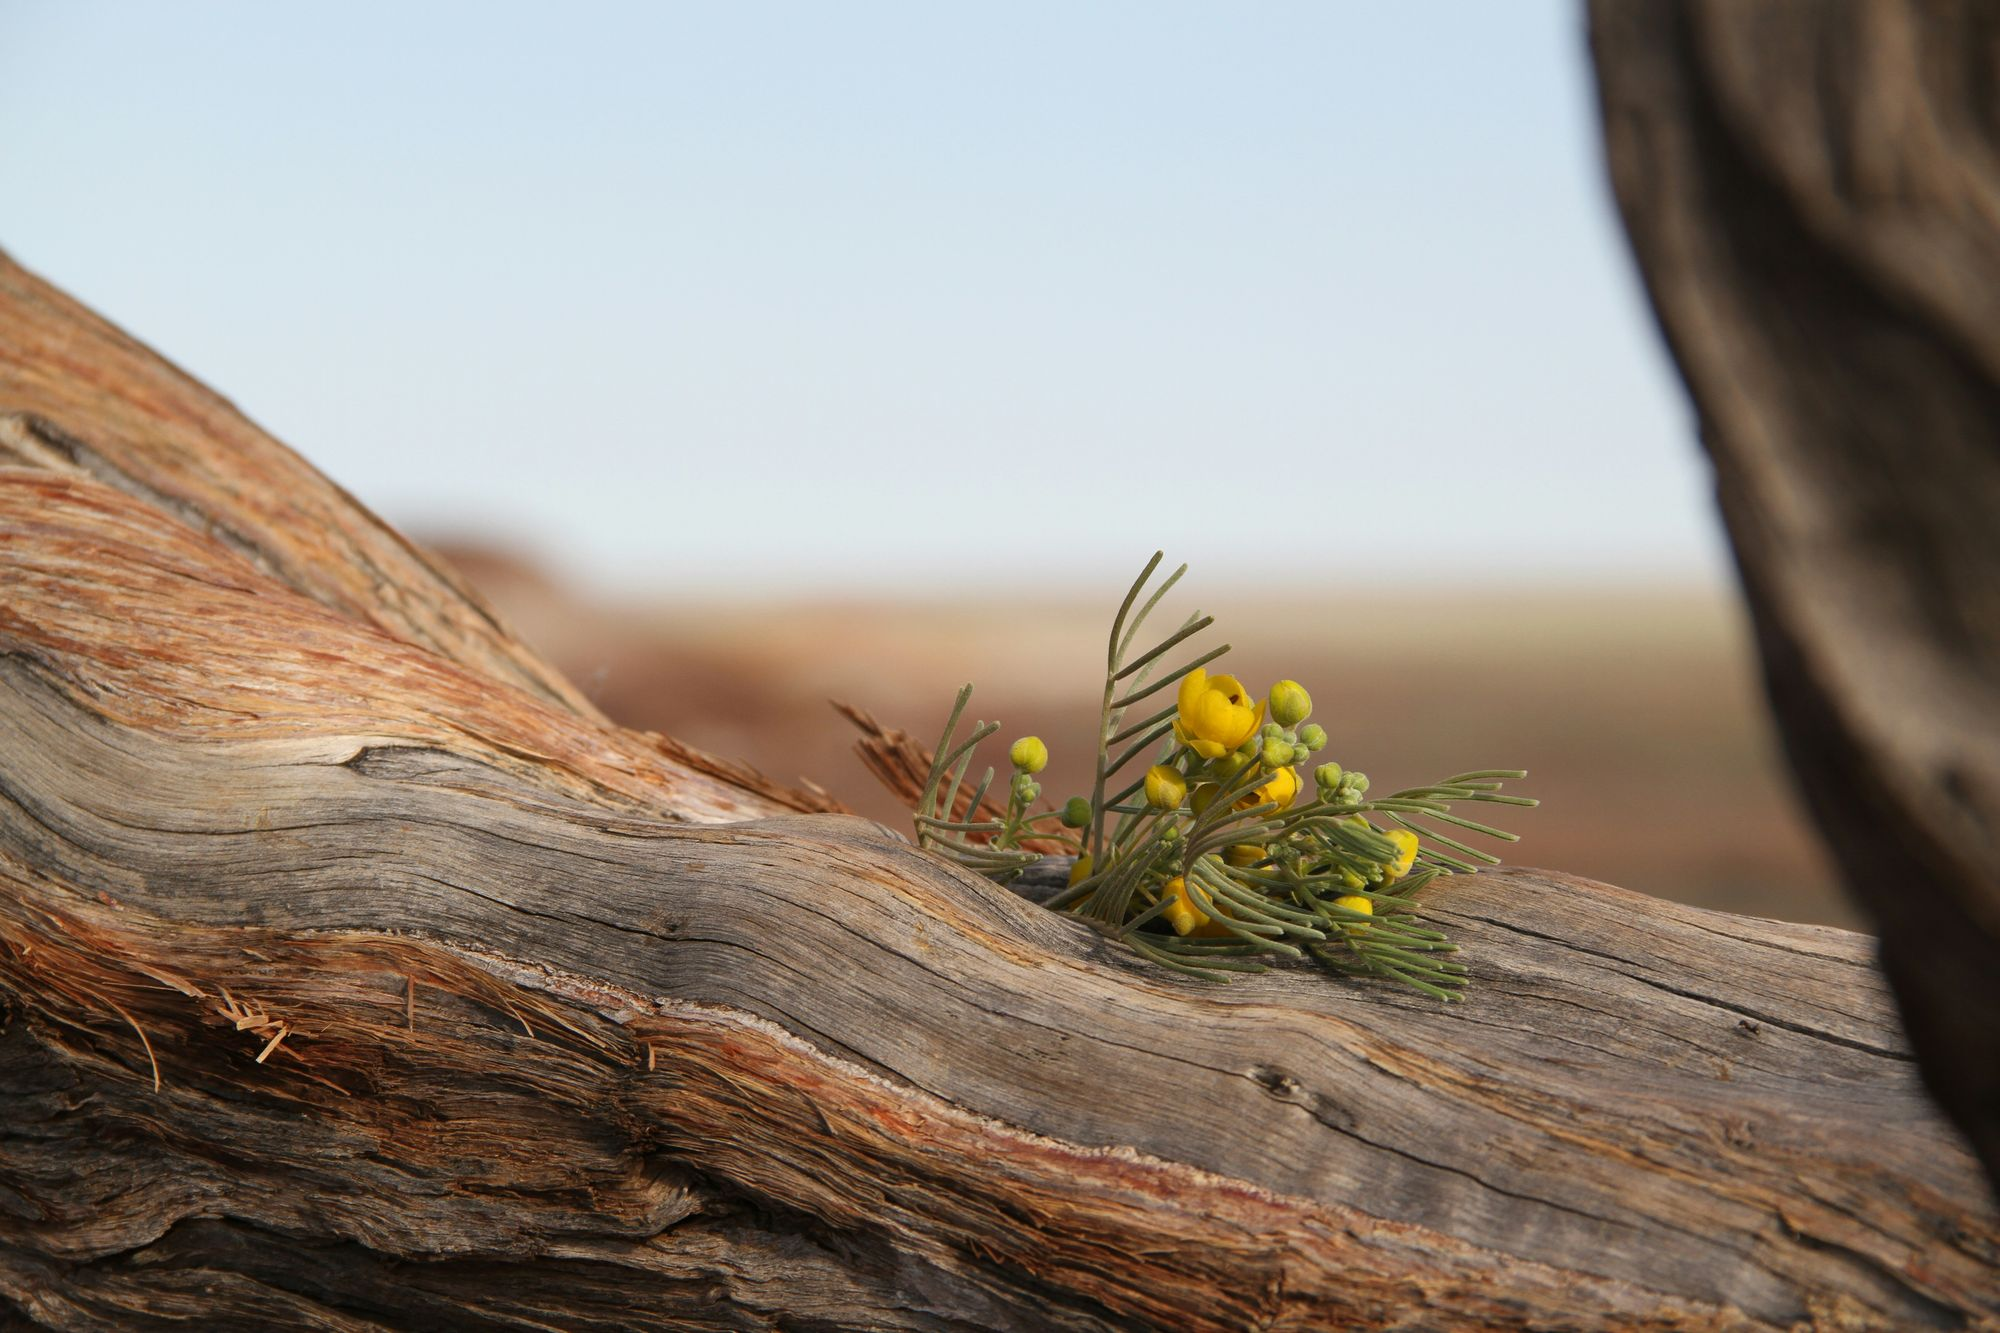
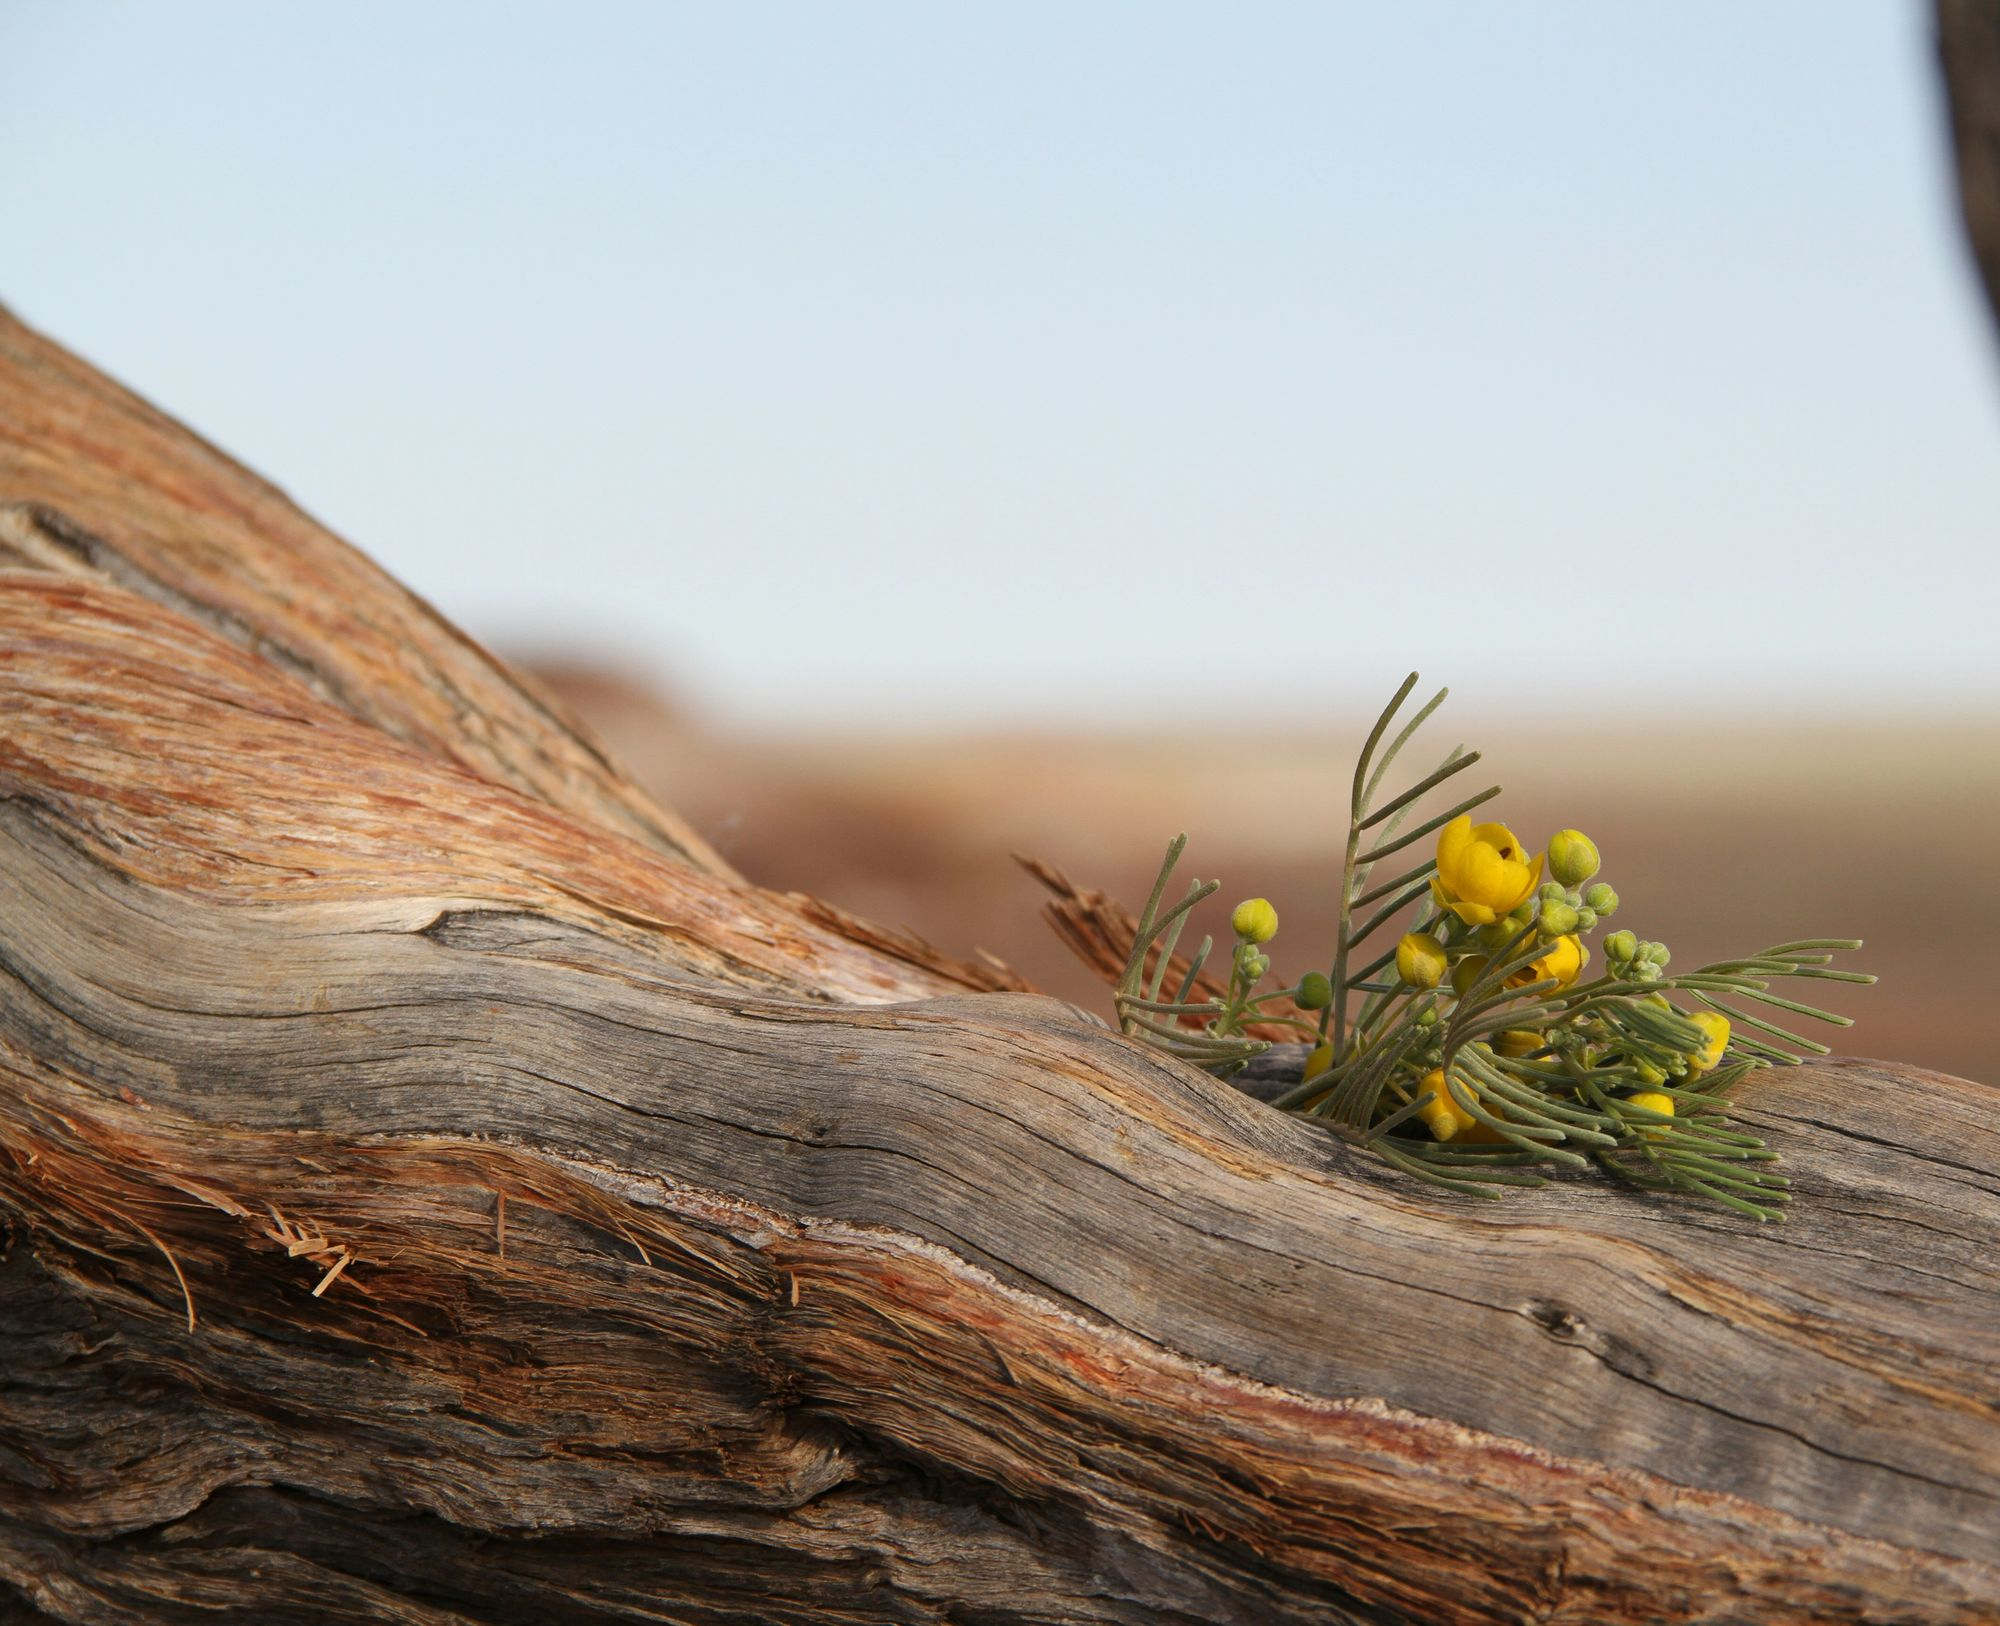
Get Involved hero: flower further right, "with natural Australia." on line two
Claude-Session: https://claude.ai/code/session_01K1Uhp38GUsmwNgrm1DziWQ

diff --git a/ways-you-can-get-involved.html b/ways-you-can-get-involved.html
@@ -32,7 +32,8 @@
 
 /* hero: wildflower photo, light fade behind the text only */
 .pj-hero.gi-hero::after{background:linear-gradient(97deg,rgba(15,49,50,.72) 0%,rgba(15,49,50,.5) 28%,rgba(15,49,50,.12) 48%,rgba(15,49,50,0) 62%)}
-.gi-hero h1{max-width:14ch}
+.gi-hero h1{max-width:none}
+@media(max-width:780px){.gi-br{display:none}}
 @media(max-width:820px){.gi-hero{flex-direction:column;align-items:stretch;min-height:0}.gi-hero .pj-hero-im{position:relative;inset:auto;height:240px;z-index:0}.gi-hero .pj-hero-im img{object-position:62% 55%}.pj-hero.gi-hero::after{display:none}.gi-hero>.cw{padding-top:2rem}.gi-hero h1,.gi-hero .lede{text-shadow:none}}
 </style>
 </head>
@@ -82,11 +83,11 @@
 </header><!-- /@header -->
 <main>
 <section class="pj-hero pj-hero-soft gi-hero">
-  <figure class="pj-hero-im"><img src="assets/img/get-involved-hero-wildflower.jpg" alt="A sprig of yellow wildflowers resting on a weathered, twisting log under a pale sky" style="object-position:60% 55%" fetchpriority="high" decoding="async"></figure>
+  <figure class="pj-hero-im"><img src="assets/img/get-involved-hero-wildflower.jpg" alt="A sprig of yellow wildflowers resting on a weathered, twisting log under a pale sky" style="object-position:60% 58%" fetchpriority="high" decoding="async"></figure>
   <div class="cw rv">
     <nav class="breadcrumb" style="display:flex;gap:.5em;font-size:.82rem;flex-wrap:wrap"><a href="index.html">Home</a><span>/</span>Get Involved</nav>
     <span class="ey">Get involved</span>
-    <h1>Every way to stand with natural Australia.</h1>
+    <h1>Every way to stand<br class="gi-br"> with natural Australia.</h1>
     <p class="lede">However you want to help, there is a way that fits. Four ways to give, five ways to give time and influence. Choose yours.</p>
   </div>
 </section>
